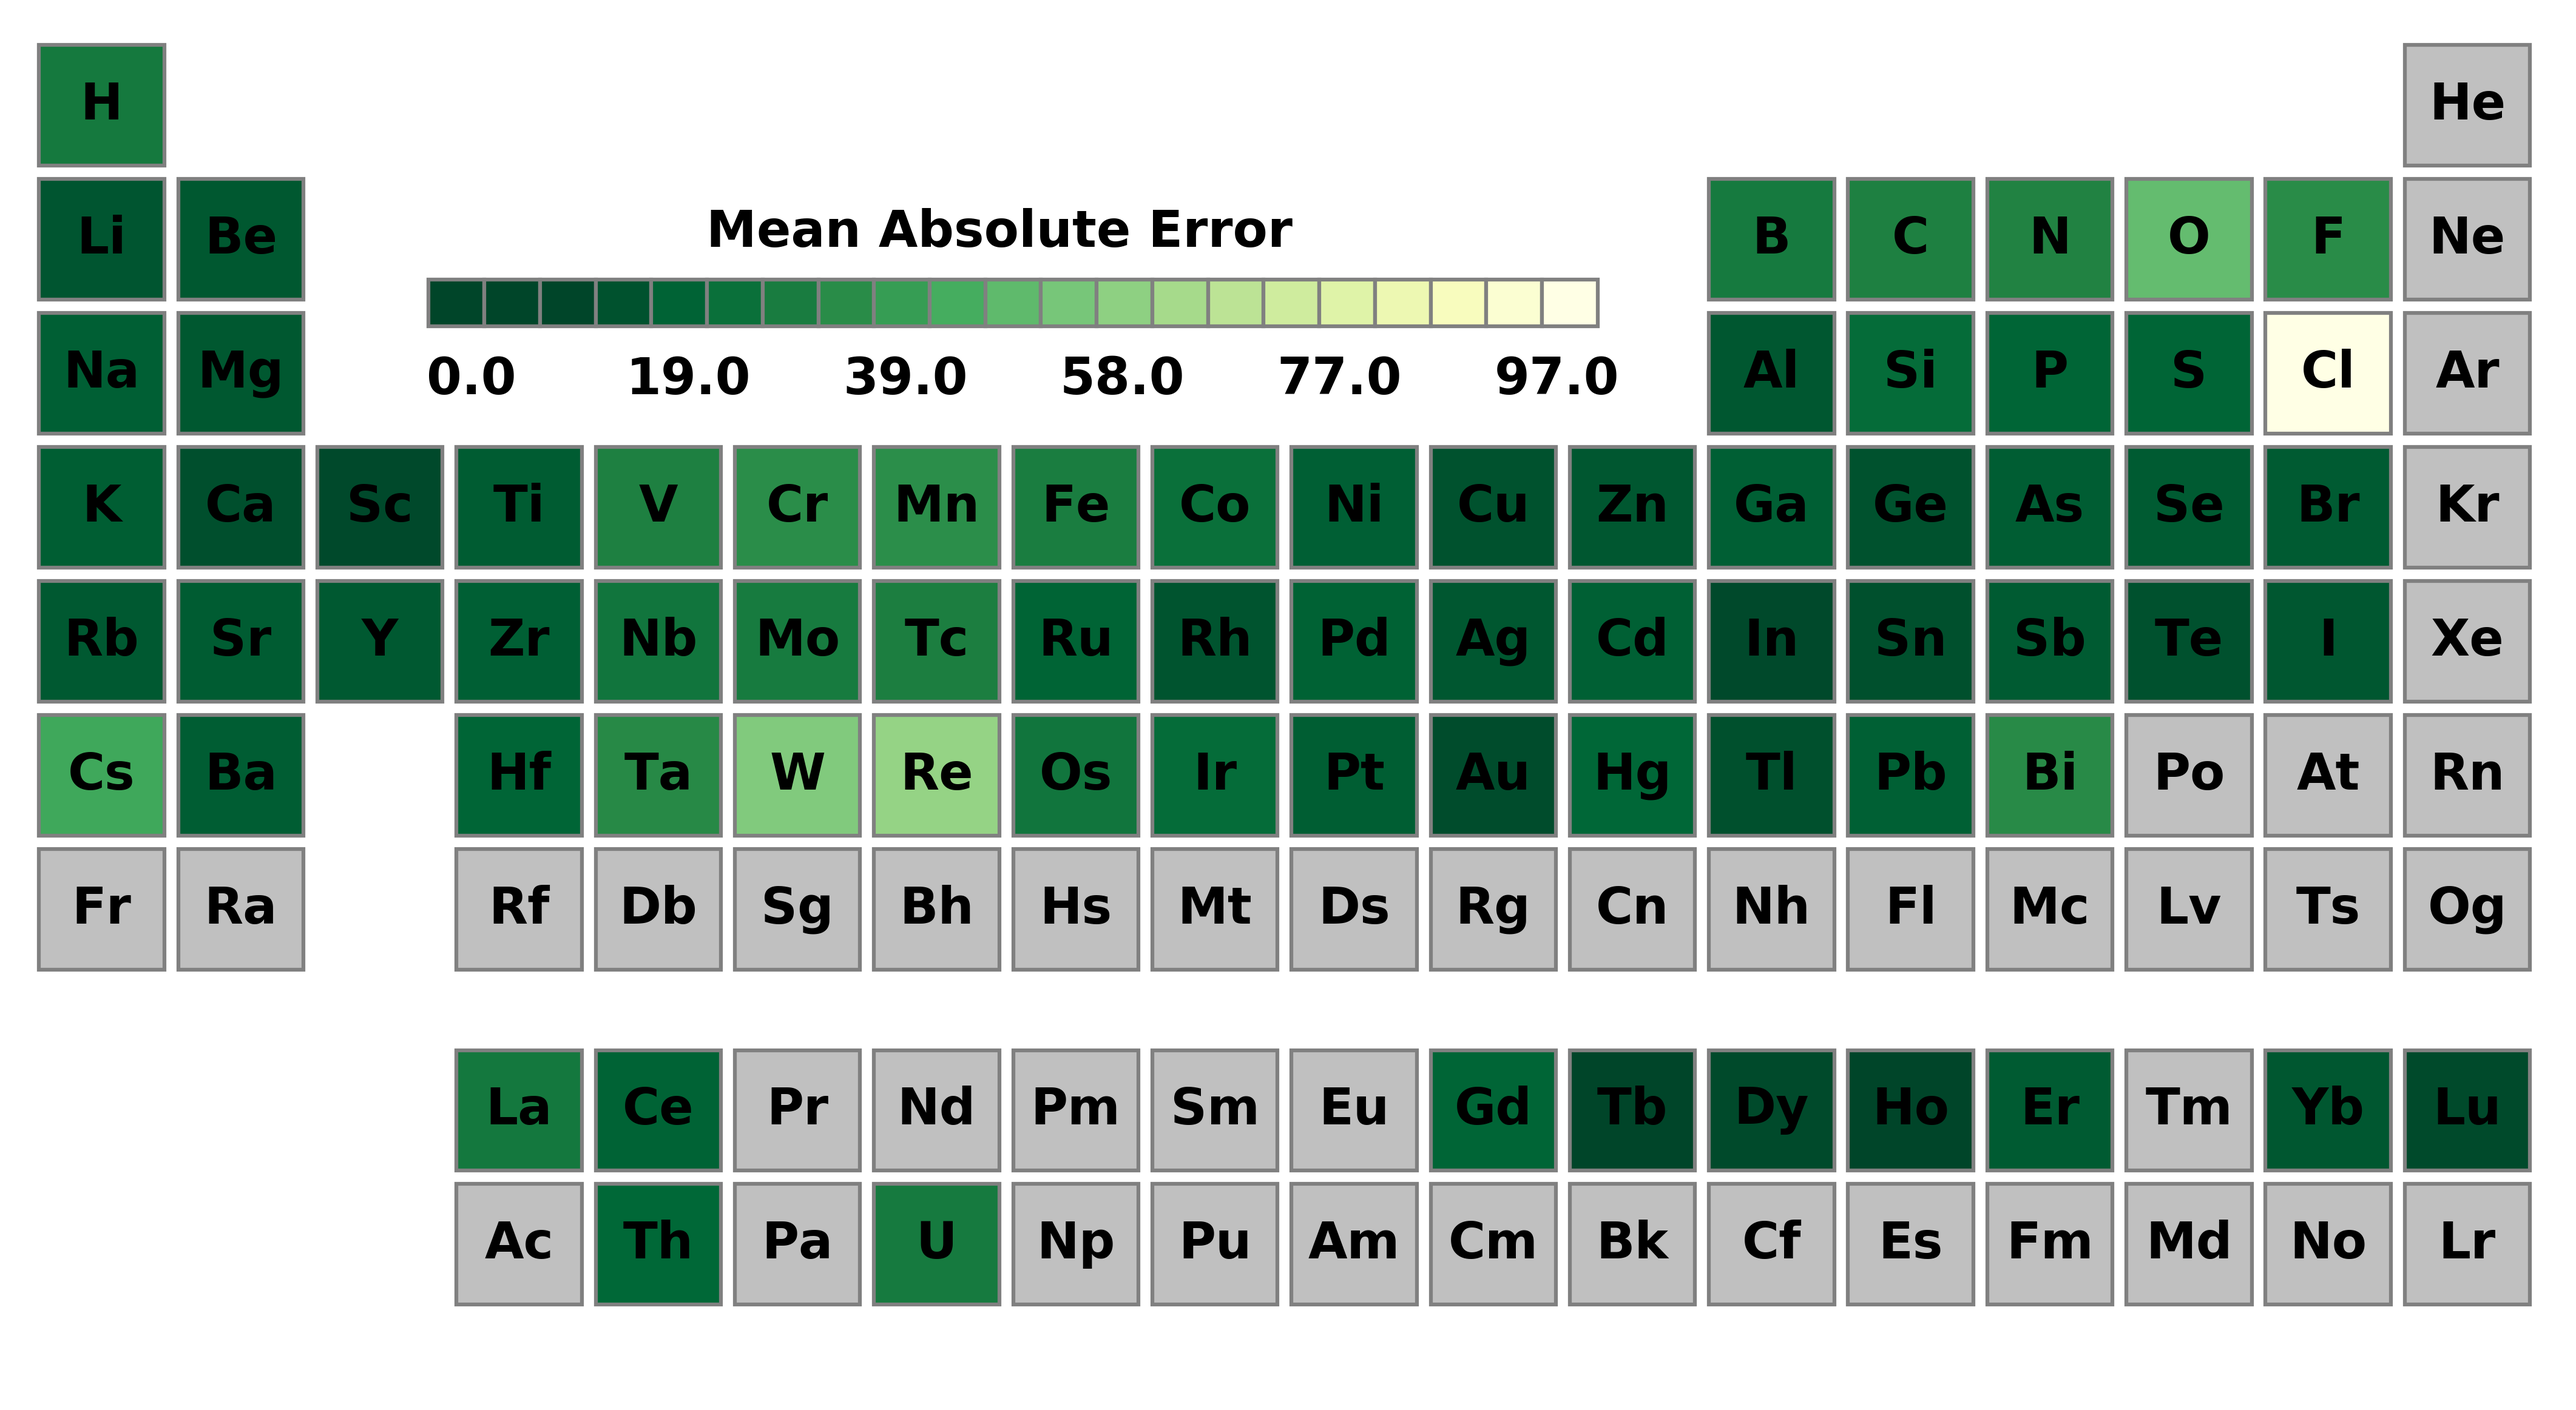
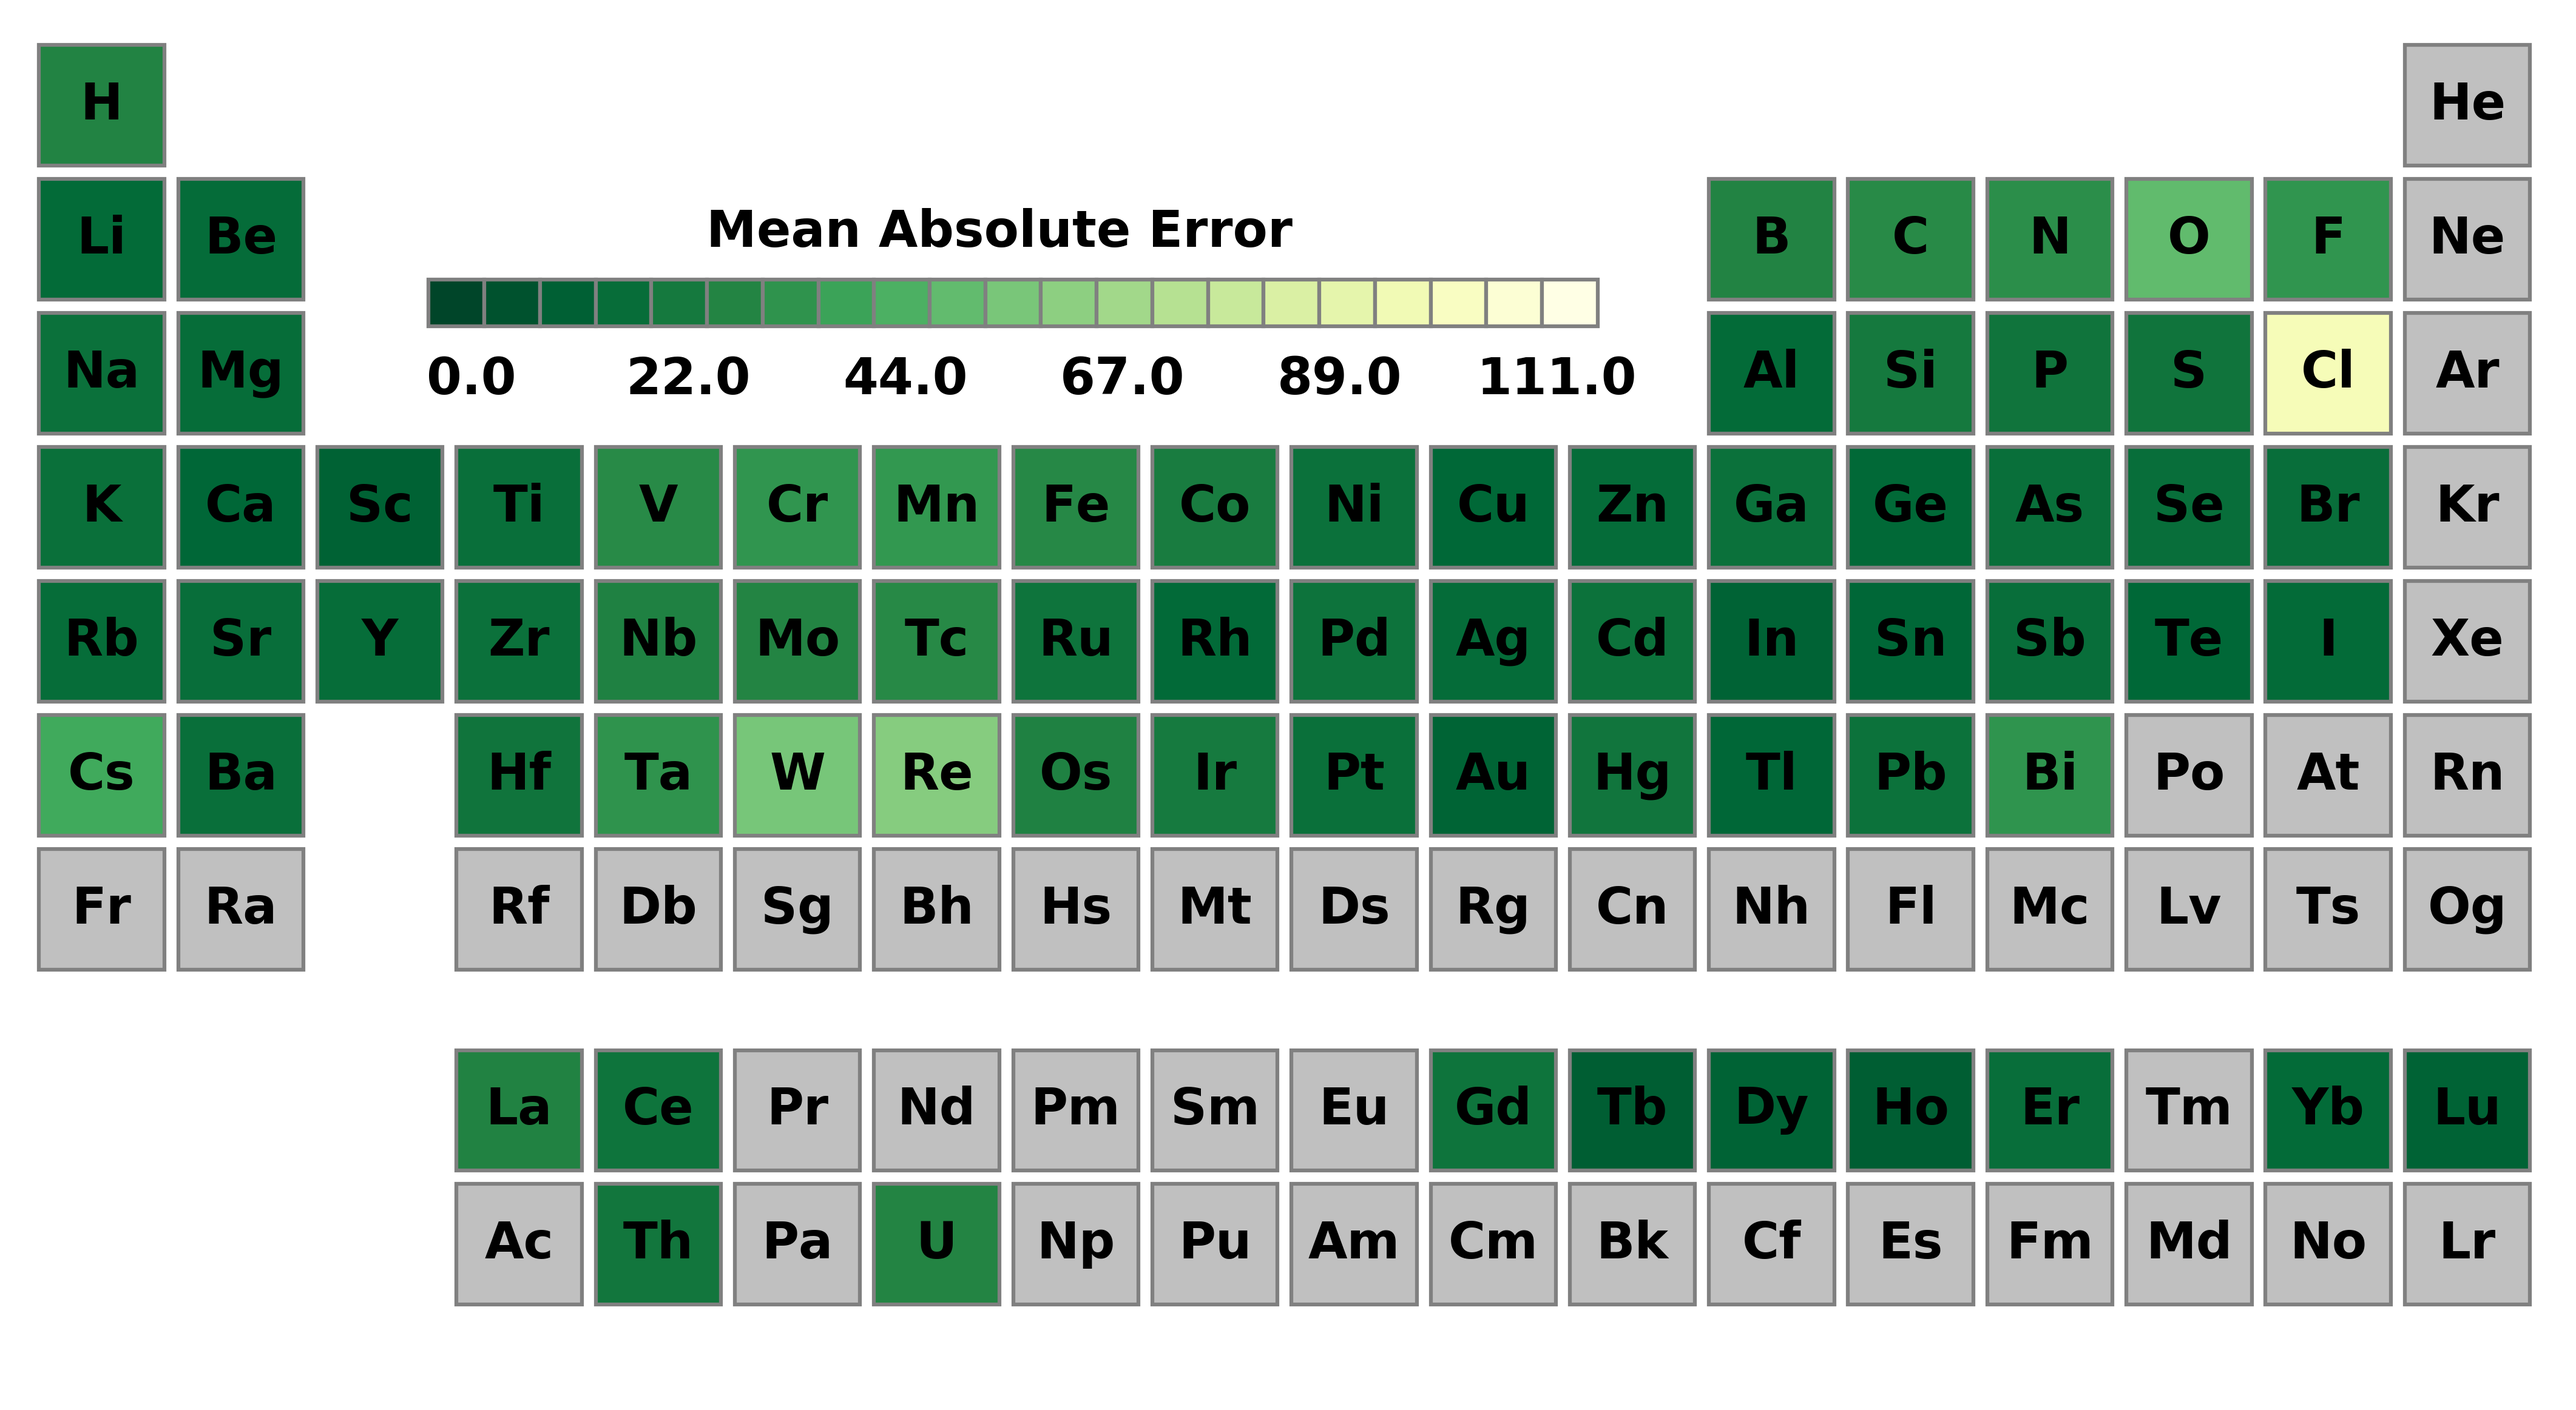
Added heatmaps of mae and r2 withheld elements

diff --git a/generate_holdouts_heatmaps.py b/generate_holdouts_heatmaps.py
@@ -1,0 +1,262 @@
+# train on properties with different descriptors
+# visualize their performance on element when an element is left out
+
+import pandas as pd
+import numpy as np
+import os
+
+import matplotlib.pyplot as plt
+import matplotlib.patches as patches
+from matplotlib.colors import Normalize
+import seaborn as sns
+import matplotlib.cm as cm
+
+from sklearn.preprocessing import StandardScaler, normalize
+from sklearn.linear_model import Ridge
+from sklearn.metrics import mean_absolute_error
+
+from utils.composition import generate_features
+
+pal = sns.color_palette("Set1", n_colors=7, desat=.5)
+sns.set_palette(pal)
+
+plt.rcParams.update({'font.size': 16})
+
+# Load in material property data
+print('Prepping Data')
+datas = pd.read_csv('data/material_properties/ael_bulk_modulus_vrh/train.csv')
+datas['cif_id'] = datas['cif_id'].str.split('_').str[0]
+datas.rename({'cif_id': 'formula'}, axis='columns', inplace=True)
+
+
+
+elem_props = ['onehot',
+              'random_200',
+              'magpie',
+              'atom2vec',
+              'mat2vec',
+              'jarvis',
+              'oliynyk']
+      
+pretty_feats = {'onehot': 'onehot',
+                'random_200': 'random',
+                'magpie': 'Magpie',
+                'jarvis': 'Jarvis',
+                'atom2vec': 'Atom2Vec',
+                'mat2vec': 'mat2vec',
+                'oliynyk': 'Oliynyk'}
+
+
+all_symbols = ['H', 'He', 'Li', 'Be', 'B', 'C', 'N', 'O', 'F', 'Ne', 'Na',
+               'Mg', 'Al', 'Si', 'P', 'S', 'Cl', 'Ar', 'K', 'Ca', 'Sc',
+               'Ti', 'V', 'Cr', 'Mn', 'Fe', 'Co', 'Ni', 'Cu', 'Zn', 'Ga',
+               'Ge', 'As', 'Se', 'Br', 'Kr', 'Rb', 'Sr', 'Y', 'Zr', 'Nb',
+               'Mo', 'Tc', 'Ru', 'Rh', 'Pd', 'Ag', 'Cd', 'In', 'Sn', 'Sb',
+               'Te', 'I', 'Xe', 'Cs', 'Ba', 'La', 'Ce', 'Pr', 'Nd', 'Pm',
+               'Sm', 'Eu', 'Gd', 'Tb', 'Dy', 'Ho', 'Er', 'Tm', 'Yb', 'Lu',
+               'Hf', 'Ta', 'W', 'Re', 'Os', 'Ir', 'Pt', 'Au', 'Hg', 'Tl',
+               'Pb', 'Bi', 'Po', 'At', 'Rn', 'Fr', 'Ra', 'Ac', 'Th', 'Pa',
+               'U', 'Np', 'Pu', 'Am', 'Cm', 'Bk', 'Cf', 'Es', 'Fm', 'Md',
+               'No', 'Lr', 'Rf', 'Db', 'Sg', 'Bh', 'Hs', 'Mt', 'Ds', 'Rg',
+               'Cn', 'Nh', 'Fl', 'Mc', 'Lv', 'Ts', 'Og']
+
+
+results_df = pd.DataFrame(columns=['symbol', 'elem_prop', 'r2', 'mae'])
+
+for heldout_element in all_symbols:
+    # Generate holdout element dataframe
+    train = datas[~datas.formula.str.contains(heldout_element)]
+    test = datas[datas.formula.str.contains(heldout_element)]
+    print('Test points with', heldout_element + ':', test.shape[0])
+    print('Train points:', train.shape[0])
+    print(test)
+    
+    
+    # Set r2 scores of elements rarely in the data to -10000; we'll exclude these
+    if test.shape[0] <= 10:
+        for featurizer in elem_props:
+            row = [heldout_element, featurizer, -10000, -10000]
+            results_df.loc[len(results_df)] = row
+        continue
+    
+    
+    for featurizer in elem_props:
+        # Featurize training data
+        X_train, y_train, _ = generate_features(train, featurizer)
+        X_train = X_train.values
+        y_train = y_train.values
+    
+        # Featurize test data
+        X_test, y_test, _ = generate_features(test, featurizer)
+        X_test = X_test.values
+        y_test = y_test.values
+        
+        if X_test.shape[0] <= 10: # some rare elements are not featurizable
+            row = [heldout_element, featurizer, -10000, -10000]
+            results_df.loc[len(results_df)] = row
+            continue
+    
+        # Scale and normalize data
+        scaler = StandardScaler()
+        X_train = scaler.fit_transform(X_train)
+        X_test = scaler.transform(X_test)
+        X_train = normalize(X_train)
+        X_test = normalize(X_test)
+    
+        # Train and score model
+        reg = Ridge(random_state=100)
+        reg.fit(X_train, y_train)
+        rr = reg.score(X_test, y_test)
+        y_pred = reg.predict(X_test)
+        mae = mean_absolute_error(y_test, y_pred)
+        row = [heldout_element, featurizer, rr, mae]
+        results_df.loc[len(results_df)] = row
+        
+results_df.to_csv('figures/holdouts/holdout_data.csv')
+        
+        
+        
+# %%
+# Plot holdout results
+
+def met_heatmap(df, elem_prop, metric='mae', save_dir='figures/holdouts/',
+                max_mae=None):
+    name = elem_prop + ' ' + metric
+    ptable = pd.read_csv('data/element_properties/ptable.csv')
+    ptable.index = ptable['symbol'].values
+    n_row = ptable['row'].max()
+    n_column = ptable['column'].max()
+        
+    this_feat = df[df['elem_prop'] == elem_prop]
+    
+    
+    for idx, _, element, elem_prop, r2, mae in this_feat.itertuples():
+        if metric == 'mae':
+            ptable.loc[ptable['symbol'] == element, 'count'] += mae
+        else:
+            ptable.loc[ptable['symbol'] == element, 'count'] += r2
+
+    elem_tracker = ptable['count']
+
+    fig, ax = plt.subplots(figsize=(n_column, n_row))
+    rows = ptable['row']
+    columns = ptable['column']
+    symbols = ptable['symbol']
+    rw = 0.9  # rectangle width (rw)
+    rh = rw  # rectangle height (rh)
+    for row, column, symbol in zip(rows, columns, symbols):
+        row = ptable['row'].max() - row
+        if metric == 'mae':
+            cmap = cm.YlGn_r
+        else:
+            cmap = cm.YlGn
+        # relative to the featurizer; could be made absolute
+        if metric == 'mae':
+            if max_mae != None:
+                count_max = max_mae
+                count_min = 0
+            else:
+                count_max = elem_tracker.max()
+                count_min = elem_tracker[elem_tracker>-1000].min()
+        else:
+            count_min = -1
+            count_max = 1
+        norm = Normalize(vmin=count_min, vmax=count_max)
+        count = elem_tracker[symbol]
+        color = cmap(norm(count))
+        if count == -10000:
+            color = 'silver'
+        if row < 3:
+            row += 0.5
+        rect = patches.Rectangle((column, row), rw, rh,
+                                 linewidth=1.5,
+                                 edgecolor='gray',
+                                 facecolor=color,
+                                 alpha=1)
+
+        plt.text(column+rw/2, row+rw/2, symbol,
+                 horizontalalignment='center',
+                 verticalalignment='center',
+                 fontsize=20,
+                 fontweight='semibold', color='k')
+
+        ax.add_patch(rect)
+
+    granularity = 20
+    for i in range(-granularity, granularity + 1, 2):
+        if metric == 'r2':
+            value = (i) * count_max/(granularity)
+        else:
+            value = (i + granularity) * count_max/(granularity * 2)
+        color = cmap(norm(value))
+        length = 4
+        x_offset = 3.9
+        y_offset = 7.8
+        x_loc = i/(granularity * 2) * length + x_offset
+        width = length / granularity * 2
+        height = 0.35
+        rect = patches.Rectangle((x_loc * 2, y_offset), width, height,
+                                 linewidth=1.5,
+                                 edgecolor='gray',
+                                 facecolor=color,
+                                 alpha=1)
+
+        if i in range(-granularity, granularity + 1, 8):
+            if metric == 'r2':
+                text = str(round(value,2))
+            else:
+                text = str(round(value, 0))
+            if value == -1 and metric == 'r2':
+                text = '<' + str(round(value,2))
+            plt.text(x_loc * 2 + width - x_loc / granularity, y_offset-0.4, text,
+                     horizontalalignment='center',
+                     verticalalignment='center',
+                     fontweight='semibold',
+                     fontsize=20, color='k')
+
+        ax.add_patch(rect)
+    if metric == 'mae':
+        plt.text(x_offset+length, y_offset+0.7,
+                 'Mean Absolute Error',
+                 horizontalalignment='center',
+                 verticalalignment='center',
+                 fontweight='semibold',
+                 fontsize=20, color='k')
+    else:
+        plt.text(x_offset+length, y_offset+0.7,
+                 'r2 Score',
+                 horizontalalignment='center',
+                 verticalalignment='center',
+                 fontweight='semibold',
+                 fontsize=20, color='k')
+
+    ax.set_ylim(-0.15, n_row+.1)
+    ax.set_xlim(0.85, n_column+1.1)
+
+    # fig.patch.set_visible(False)
+    ax.axis('off')
+
+    if save_dir is not None:
+        fig_name = f'{save_dir}/{name}_ptable.png'
+        os.makedirs(save_dir, exist_ok=True)
+        plt.savefig(fig_name, bbox_inches='tight', dpi=300)
+    plt.draw()
+    plt.pause(0.001)
+    plt.close()
+
+
+
+
+
+
+results_df = pd.read_csv('figures/holdouts/holdout_data.csv')
+
+high_mae = results_df['mae'].max()
+
+# you could drop the --10000s
+# not_used = results_df[results_df['r2'].isin([-10000])]['symbol'].drop_duplicates()
+# results_df = results_df[~results_df['symbol'].isin(not_used)]
+
+for elem_prop in elem_props:
+    met_heatmap(results_df, elem_prop, max_mae=high_mae)
+    met_heatmap(results_df, elem_prop, metric='r2')
